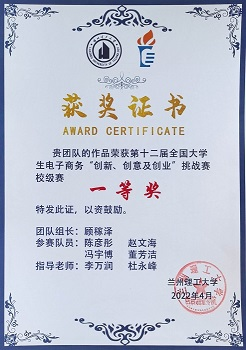
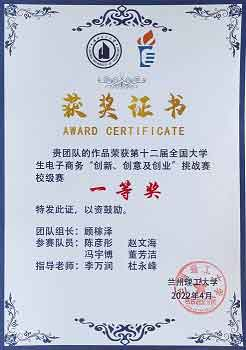
reload

diff --git a/resume.html b/resume.html
@@ -634,9 +634,9 @@
                      <!--Masonry Grid Item START-->
                      <div class="col-md-6 col-lg-4 grid-item">
 
-                         <a href="images/lizhi1.png" class="portfolio-item portfolio-image underline_animation text-reset">
+                         <a href="images/lizhi1.jpg" class="portfolio-item portfolio-image underline_animation text-reset">
                              <div class="portfolio-thumbnail">
-                                 <img src="images/lizhi1.png" class="img-fluid img-grayTransition" alt="">
+                                 <img src="images/lizhi1.jpg" class="img-fluid img-grayTransition" alt="">
                              </div>
                              <div class="portfolio-description my-3">
                                  <h3 class="fs-5 underline_text fw-bold d-inline-block">国家励志奖学金</h3>
@@ -647,9 +647,9 @@
                      </div>
                      <div class="col-md-6 col-lg-4 grid-item">
 
-                         <a href="images/sci.png" class="portfolio-item portfolio-image underline_animation text-reset">
+                         <a href="images/sci.jpg" class="portfolio-item portfolio-image underline_animation text-reset">
                              <div class="portfolio-thumbnail">
-                                 <img src="images/sci.png" class="img-fluid img-grayTransition" alt="">
+                                 <img src="images/sci.jpg" class="img-fluid img-grayTransition" alt="">
                              </div>
                              <div class="portfolio-description my-3">
                                  <h3 class="fs-5 underline_text fw-bold d-inline-block">Remote Sensing</h3>
@@ -703,9 +703,9 @@
                      </div>
                      <div class="col-md-6 col-lg-4 grid-item">
 
-                         <a href="images/shi.png" class="portfolio-item portfolio-image underline_animation text-reset">
+                         <a href="images/shi.jpg" class="portfolio-item portfolio-image underline_animation text-reset">
                              <div class="portfolio-thumbnail">
-                                 <img src="images/shi.png" class="img-fluid img-grayTransition" alt="">
+                                 <img src="images/shi.jpg" class="img-fluid img-grayTransition" alt="">
                              </div>
                              <div class="portfolio-description my-3">
                                  <h3 class="fs-5 underline_text fw-bold d-inline-block">实用新型专利</h3>
@@ -814,9 +814,9 @@
                      <!--Masonry Grid Item END-->
                      <div class="col-md-6 col-lg-4 grid-item">
 
-                         <a href="images/lizhi2.png" class="portfolio-item portfolio-image underline_animation text-reset">
+                         <a href="images/lizhi2.jpg" class="portfolio-item portfolio-image underline_animation text-reset">
                              <div class="portfolio-thumbnail">
-                                 <img src="images/lizhi2.png" class="img-fluid img-grayTransition" alt="">
+                                 <img src="images/lizhi2.jpg" class="img-fluid img-grayTransition" alt="">
                              </div>
                              <div class="portfolio-description my-3">
                                  <h3 class="fs-5 underline_text fw-bold d-inline-block">国家励志奖学金</h3>
